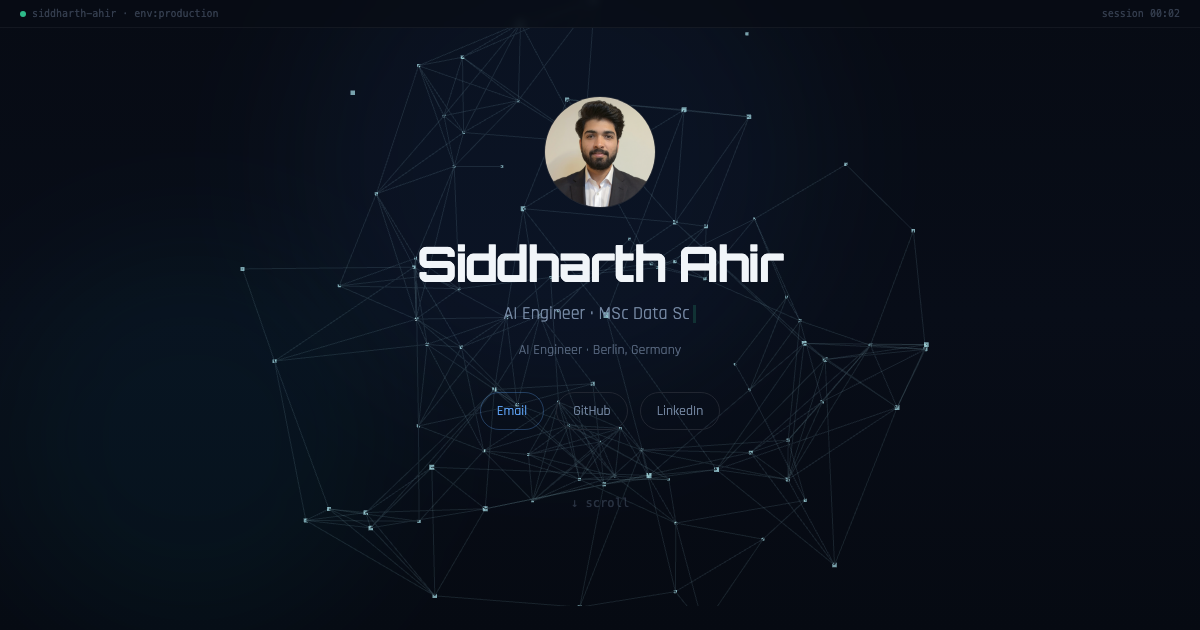
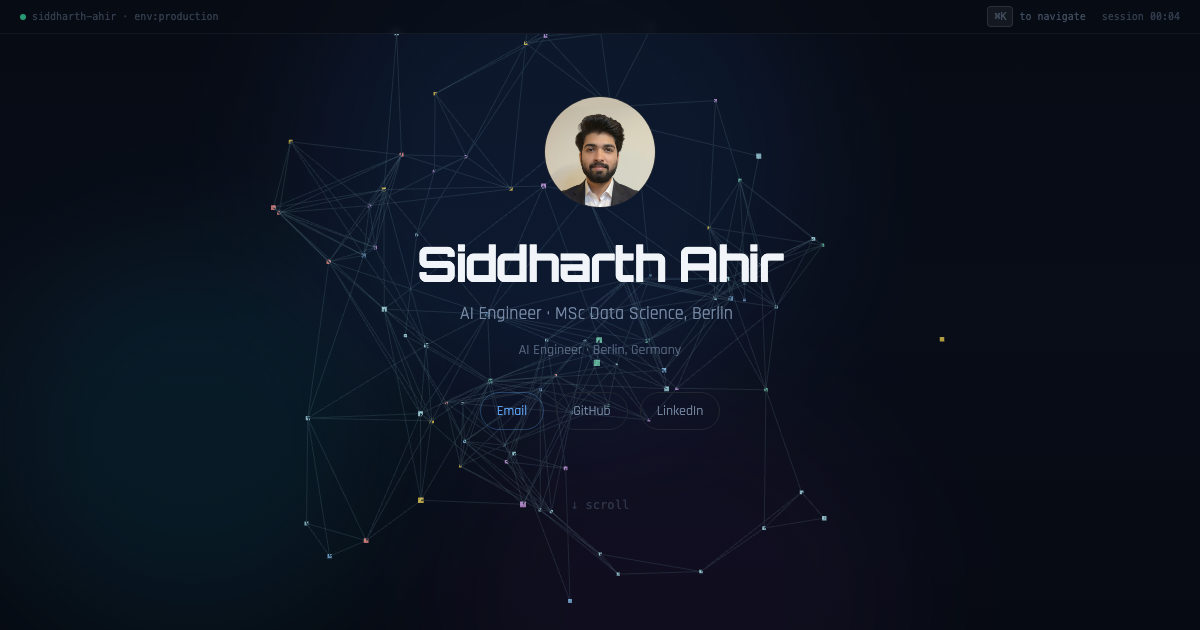
Fix photo crop, skill label collisions, and add a hub pulse animation
1. Photo crop: root-caused, not just a CSS tweak. The source photo had
   almost zero margin above the hair (~2% of its height), so no
   object-position value could create headroom that didn't exist in the
   pixels — any circular crop was always going to touch the hairline.
   Regenerated the source image with genuine padding added above the
   head (PIL, background colour sampled from the photo's own wall, seam
   feathered), then picked the object-position value by rendering all
   three candidates at real size and looking, not guessing. Also
   right-sized the file (420px wide vs. the previous 684px — plenty for
   a 112px avatar) — 614kB down to 241kB.

2. Skill graph label collisions: the earlier tier-stagger fix wasn't
   enough — verified this by actually looking, found "AI Agents" /
   "Hybrid Retrieval" and "Supabase" / "PostgreSQL" still overlapping.
   Replaced the naive parity stagger with real greedy interval
   scheduling (sort by x, only bump a label to the next tier when its
   estimated span would truly collide with its neighbour) plus a
   backing chip behind every label as a safety net — so even where two
   labels end up close, text stays independently legible instead of
   bleeding into an unreadable mess. Increased both radii for more
   overall breathing room. Verified across the full graph, top and
   bottom halves, including the exact pair (Supabase/PostgreSQL) from
   the original report.
[…]

diff --git a/src/components/SkillGraph.tsx b/src/components/SkillGraph.tsx
@@ -13,8 +13,12 @@ const W = 780;
 const H = 460;
 const CX = W / 2;
 const CY = H / 2;
-const CATEGORY_RADIUS = 150;
-const SKILL_RADIUS = 92;
+const CATEGORY_RADIUS = 175;
+const SKILL_RADIUS = 135;
+const FONT_SIZE = 9.5;
+const CHAR_WIDTH = FONT_SIZE * 0.82; // deliberately generous — better to over-space than let two labels touch
+const TIER_HEIGHT = 13;
+const LABEL_GAP = 12; // minimum breathing room required between two labels' estimated edges
 
 interface Props {
   onSkillClick: (linkedProject: string | null) => void;
@@ -46,28 +50,50 @@ export const SkillGraph = ({ onSkillClick }: Props) => {
         const nodeRad = (nodeAngle * Math.PI) / 180;
         const x = cx + SKILL_RADIUS * Math.cos(nodeRad);
         const y = cy + SKILL_RADIUS * Math.sin(nodeRad);
-        return { ...skill, x, y, color: COLOR_HEX[cat.color] ?? COLOR_HEX.blue };
+        const labelWidth = skill.name.length * CHAR_WIDTH;
+        return { ...skill, x, y, labelWidth, color: COLOR_HEX[cat.color] ?? COLOR_HEX.blue };
       });
 
-      return { ...cat, cx, cy, nodes, color: COLOR_HEX[cat.color] ?? COLOR_HEX.blue };
+      // Greedy interval-scheduling pass: sort left-to-right, and only bump
+      // a label to the next vertical tier when its estimated span would
+      // actually collide with the label immediately before it at that
+      // tier — guarantees no overlap regardless of category size or how
+      // tightly a fan of nodes ends up packed.
+      const byX = [...nodes].sort((a, b) => a.x - b.x);
+      const tierEnds: number[] = []; // right edge of the last label placed on each tier
+      byX.forEach(n => {
+        const half = n.labelWidth / 2;
+        let tier = tierEnds.findIndex(end => n.x - half > end + LABEL_GAP);
+        if (tier === -1) tier = tierEnds.length;
+        tierEnds[tier] = n.x + half;
+        (n as typeof n & { tier: number }).tier = tier;
+      });
+
+      return { ...cat, cx, cy, nodes: nodes as (typeof nodes[number] & { tier: number })[], color: COLOR_HEX[cat.color] ?? COLOR_HEX.blue };
     });
 
     // Fixed W/H×constants above were a guess — some fan angles (a 6-item
     // category pointed straight up, for instance) pushed nodes past that
-    // fixed box and off-canvas entirely. Compute the real bounding box of
-    // every point instead, so nothing can ever clip regardless of how many
-    // skills end up in a category or which direction it points.
+    // fixed box and off-canvas entirely. Compute the real bounding box from
+    // every label's actual extent (position + tier offset + text width)
+    // instead, so nothing can ever clip regardless of category size, fan
+    // direction, or how many tiers a crowded category needed.
     let minX = Infinity, maxX = -Infinity, minY = Infinity, maxY = -Infinity;
     const bound = (x: number, y: number) => {
       minX = Math.min(minX, x); maxX = Math.max(maxX, x);
       minY = Math.min(minY, y); maxY = Math.max(maxY, y);
     };
-    bound(CX, CY);
+    bound(CX, CY - 18); // "AI ENGINEER" hub label
     categories.forEach(cat => {
       bound(cat.cx, cat.cy);
-      cat.nodes.forEach(n => bound(n.x, n.y));
+      cat.nodes.forEach(n => {
+        const half = n.labelWidth / 2;
+        const labelY = n.y > CY ? n.y + 16 + n.tier * TIER_HEIGHT : n.y - 10 - n.tier * TIER_HEIGHT;
+        bound(n.x - half, labelY);
+        bound(n.x + half, labelY);
+      });
     });
-    const PAD = 75; // clears the widest label text plus its offset from the node
+    const PAD = 14;
     const viewBox = `${minX - PAD} ${minY - PAD} ${maxX - minX + PAD * 2} ${maxY - minY + PAD * 2}`;
 
     return { layout: categories, viewBox };
@@ -98,8 +124,63 @@ export const SkillGraph = ({ onSkillClick }: Props) => {
           ))
         )}
 
-        {/* hub node */}
-        <circle cx={CX} cy={CY} r={5} fill="#6fe0ff" />
+        {/* live data packets travelling outward along every branch — the
+            "requests actually flowing through a system" visual, not just
+            a static diagram. Native SVG SMIL animation: no JS per-frame
+            cost, keeps running even while the tab is otherwise idle. */}
+        {categories.map((cat, i) => (
+          <circle key={`pulse-cat-${i}`} r={2.6} fill={cat.color}>
+            <animateMotion
+              dur="2.4s"
+              begin={`${i * 0.45}s`}
+              repeatCount="indefinite"
+              path={`M${CX},${CY} L${cat.cx},${cat.cy}`}
+            />
+            <animate
+              attributeName="opacity"
+              values="0;1;1;0"
+              keyTimes="0;0.1;0.85;1"
+              dur="2.4s"
+              begin={`${i * 0.45}s`}
+              repeatCount="indefinite"
+            />
+          </circle>
+        ))}
+        {categories.map(cat =>
+          cat.nodes.map((n, j) => (
+            <circle key={`pulse-skill-${cat.category}-${j}`} r={1.6} fill={n.color} opacity={0.8}>
+              <animateMotion
+                dur="3.6s"
+                begin={`${1 + (j % 5) * 0.5}s`}
+                repeatCount="indefinite"
+                path={`M${cat.cx},${cat.cy} L${n.x},${n.y}`}
+              />
+              <animate
+                attributeName="opacity"
+                values="0;0.8;0.8;0"
+                keyTimes="0;0.1;0.85;1"
+                dur="3.6s"
+                begin={`${1 + (j % 5) * 0.5}s`}
+                repeatCount="indefinite"
+              />
+            </circle>
+          ))
+        )}
+
+        {/* hub node — a heartbeat, not a static dot: two expanding rings
+            plus a subtle breathing core, framing this as a live system
+            rather than a diagram of one. */}
+        <circle cx={CX} cy={CY} r={5} fill="none" stroke="#6fe0ff" strokeWidth={1.5} opacity={0.7}>
+          <animate attributeName="r" values="5;42" dur="2.6s" repeatCount="indefinite" />
+          <animate attributeName="opacity" values="0.7;0" dur="2.6s" repeatCount="indefinite" />
+        </circle>
+        <circle cx={CX} cy={CY} r={5} fill="none" stroke="#6fe0ff" strokeWidth={1.5} opacity={0.7}>
+          <animate attributeName="r" values="5;42" dur="2.6s" begin="1.3s" repeatCount="indefinite" />
+          <animate attributeName="opacity" values="0.7;0" dur="2.6s" begin="1.3s" repeatCount="indefinite" />
+        </circle>
+        <circle cx={CX} cy={CY} r={5} fill="#6fe0ff">
+          <animate attributeName="r" values="5;6.5;5" dur="1.8s" repeatCount="indefinite" />
+        </circle>
         <circle cx={CX} cy={CY} r={11} fill="none" stroke="#6fe0ff" strokeOpacity={0.35} strokeWidth={1} />
         <text x={CX} y={CY - 18} textAnchor="middle" className="fill-cyan-300" style={{ fontSize: 10, fontFamily: 'monospace', letterSpacing: '0.1em', opacity: 0.7 }}>
           AI ENGINEER
@@ -133,20 +214,41 @@ export const SkillGraph = ({ onSkillClick }: Props) => {
                   fillOpacity={clickable ? 0.9 : 0.4}
                   style={{ transition: 'r 150ms' }}
                 />
-                <text
-                  x={n.x}
-                  y={n.y + (n.y > CY ? 16 + (j % 2) * 13 : -10 - (j % 2) * 13)}
-                  textAnchor="middle"
-                  style={{
-                    fontSize: 10,
-                    fontFamily: 'monospace',
-                    fill: isHovered ? n.color : 'hsl(var(--muted-foreground))',
-                    opacity: isHovered ? 1 : 0.7,
-                    transition: 'opacity 150ms, fill 150ms',
-                  }}
-                >
-                  {n.name}
-                </text>
+                {(() => {
+                  const labelY = n.y > CY ? n.y + 16 + n.tier * TIER_HEIGHT : -10 - n.tier * TIER_HEIGHT + n.y;
+                  // A backing chip, not just spacing math: the tier pass keeps most
+                  // labels from touching, but text width is only ever an estimate —
+                  // this is the safety net that keeps any label legible even where
+                  // two chips end up close, instead of raw text bleeding together.
+                  return (
+                    <>
+                      <rect
+                        x={n.x - n.labelWidth / 2 - 4}
+                        y={labelY - FONT_SIZE}
+                        width={n.labelWidth + 8}
+                        height={FONT_SIZE + 4}
+                        rx={4}
+                        fill="#070b14"
+                        fillOpacity={isHovered ? 0.9 : 0.72}
+                        style={{ transition: 'fill-opacity 150ms' }}
+                      />
+                      <text
+                        x={n.x}
+                        y={labelY}
+                        textAnchor="middle"
+                        style={{
+                          fontSize: FONT_SIZE,
+                          fontFamily: 'monospace',
+                          fill: isHovered ? n.color : 'hsl(var(--muted-foreground))',
+                          opacity: isHovered ? 1 : 0.85,
+                          transition: 'opacity 150ms, fill 150ms',
+                        }}
+                      >
+                        {n.name}
+                      </text>
+                    </>
+                  );
+                })()}
               </g>
             );
           })

diff --git a/src/components/sections/HeroSection.tsx b/src/components/sections/HeroSection.tsx
@@ -52,7 +52,7 @@ export const HeroSection = () => {
               decoding="async"
               onError={() => setImgFailed(true)}
               className="absolute inset-0 w-full h-full object-cover"
-              style={{ objectPosition: 'center 15%' }}
+              style={{ objectPosition: 'center 25%' }}
             />
           )}
         </motion.div>
